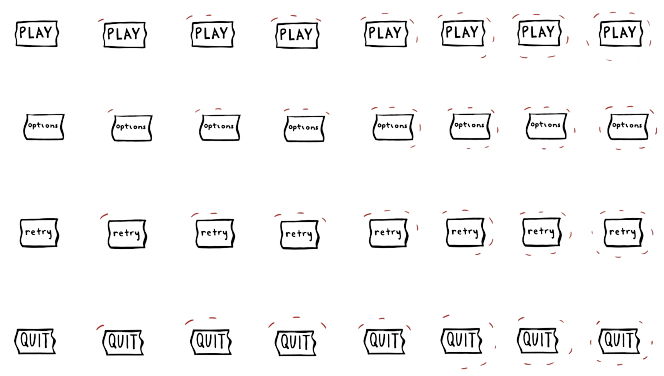
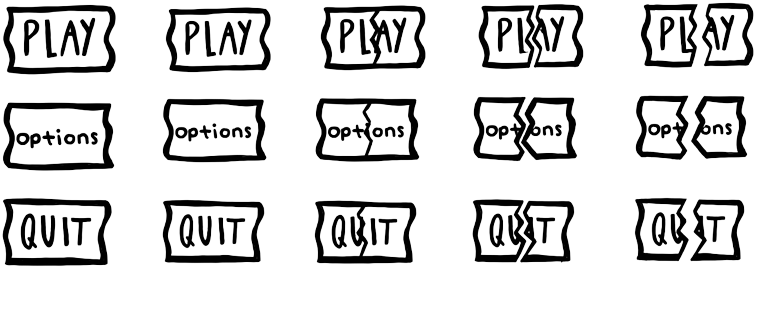
MenuAdded

diff --git a/src/gamestates/GMenu.java b/src/gamestates/GMenu.java
@@ -11,19 +11,46 @@ import java.awt.image.BufferedImage;
 
 public class GMenu extends State implements Statemethods{
     private MenuButton[] buttons = new MenuButton[3];
+    private BufferedImage background;
+    private BufferedImage[] menuTitle = new BufferedImage[4];
+    private int index, aniTick, aniSpeed =60;
     public GMenu(Game game) {
         super(game);
         loadButtons();
+        loadBackground();
     }
 
     private void loadButtons() {
-        buttons[0] = new MenuButton(Game.GAME_WIDTH/2, (int) (100*Game.SCALE), 0, Gamestate.PLAYING);
-        buttons[1] = new MenuButton(Game.GAME_WIDTH/2, (int) (220*Game.SCALE), 1, Gamestate.OPTIONS);
-        buttons[2] = new MenuButton(Game.GAME_WIDTH/2, (int) (290*Game.SCALE), 2, Gamestate.QUIT);
+        buttons[0] = new MenuButton(Game.GAME_WIDTH/2, (int) (315*Game.SCALE), 0, Gamestate.PLAYING);
+        buttons[1] = new MenuButton(Game.GAME_WIDTH/2, (int) (435*Game.SCALE), 1, Gamestate.OPTIONS);
+        buttons[2] = new MenuButton(Game.GAME_WIDTH/2, (int) (550*Game.SCALE), 2, Gamestate.QUIT);
+    }
+
+    private void loadBackground(){
+        background = LoadSave.GetSpriteAtlas(LoadSave.BINDER_PAPER);
+        BufferedImage menuImg = LoadSave.GetSpriteAtlas(LoadSave.MENU_TITLE);
+        for (int i = 0; i < 3; i++){
+            menuTitle[i] = menuImg.getSubimage(330 * i, 0, 330, 170);
+        }
+        menuTitle[3] = menuTitle[1];
+
+    }
+
+    private void updateBackground(){
+        aniTick ++;
+        if (aniTick >= aniSpeed){
+            aniTick = 0;
+            index ++;
+            if(index>=4){
+                index = 0;
+            }
+        }
+
     }
 
     @Override
     public void update() {
+        updateBackground();
         for (MenuButton menuButton : buttons){
             menuButton.update();
         }
@@ -32,6 +59,8 @@ public class GMenu extends State implements Statemethods{
 
     @Override
     public void draw(Graphics g) {
+        g.drawImage(background, 0, 0, Game.GAME_WIDTH, Game.GAME_HEIGHT, null);
+        g.drawImage(menuTitle[index], 445, 100, 300, 100, null);
         for (MenuButton menuButton: buttons){
             menuButton.draw(g);
         }

diff --git a/src/ui/MenuButton.java b/src/ui/MenuButton.java
@@ -11,7 +11,7 @@ import java.nio.Buffer;
 import static utilz.Constants.UI.*;
 
 public class MenuButton {
-    private int xPos, yPos, rowIndex;
+    private int xPos, yPos, rowIndex, aniTick, aniSpeed = 60;
     private Gamestate state;
     private BufferedImage[] imgs;
     private int index;
@@ -33,7 +33,7 @@ public class MenuButton {
 
 
     private void loadImages() {
-       imgs = new BufferedImage[3];
+       imgs = new BufferedImage[5];
        BufferedImage temp = LoadSave.GetSpriteAtlas(LoadSave.MENU_BUTTONS);
        for (int i = 0; i < imgs.length; i++){
            imgs[i] = temp.getSubimage(i * B_WIDTH_DEFAULT, rowIndex * B_HEIGHT_DEFAULT, B_WIDTH_DEFAULT,B_HEIGHT_DEFAULT);
@@ -41,19 +41,34 @@ public class MenuButton {
    }
 
     public void draw(Graphics g){
-        g.drawImage(imgs[index],  xPos - xOffsetCenter, yPos, B_WIDTH, B_HEIGHT, null);
+        g.drawImage(imgs[index],  xPos - xOffsetCenter, yPos, B_WIDTH_DEFAULT, B_HEIGHT_DEFAULT, null);
     }
 
     public void update(){
-        index = 0;
-        if(mouseOver){
-            index = 1;
-        }
-        if(mousePressed){
-            index = 2;
+        aniTick++;
+        if (aniTick >= aniSpeed){
+            aniTick = 0;
+            index ++;
+            if (index > 1){
+                index = 0;
+            }
         }
 
-    }
+        else if(mouseOver) {
+            index = 2;
+            while (index < imgs.length - 1) {
+                index++;
+            }
+        }
+
+        else if(mousePressed){
+            index = 1;
+
+
+            }
+        }
+
+
     public boolean isMouseOver(){
         return mouseOver;
     }

diff --git a/src/levels/LevelManager.java b/src/levels/LevelManager.java
@@ -170,6 +170,11 @@ public class LevelManager {
         buttons[0] = new Rectangle(Game.BLOCK_SIZE*9,Game.FLOOR_HEIGHT - Game.BLOCK_SIZE*2 - Game.BUTTON_HEIGHT,Game.BUTTON_WIDTH, Game.BUTTON_HEIGHT);
         buttons[1] = new Rectangle(Game.BLOCK_SIZE*6,Game.FLOOR_HEIGHT - Game.BLOCK_SIZE*4 - Game.BUTTON_HEIGHT- Game.LINE_SIZE*2,Game.BUTTON_WIDTH, Game.BUTTON_HEIGHT);
 
+        //obstacles
+        obstacles = new Obstacle[3];
+        obstacles[0] = new Obstacle("GEM", 690, 45, game);
+        obstacles[1] = new Obstacle("GEM", 1015, 335, game);
+        obstacles[2] = new Obstacle("GEM", 630, 400, game);
 
         LevelCreated = true;
     }

diff --git a/src/utilz/Constants.java b/src/utilz/Constants.java
@@ -4,8 +4,8 @@ import main.Game;
 
 public class Constants {
     public static class UI{
-        public static final int B_WIDTH_DEFAULT = 80;
-        public static final int B_HEIGHT_DEFAULT = 100;
+        public static final int B_WIDTH_DEFAULT = 151;
+        public static final int B_HEIGHT_DEFAULT = 93;
         public static final int B_WIDTH = (int)(B_WIDTH_DEFAULT* Game.SCALE);
         public static final int B_HEIGHT = (int)(B_HEIGHT_DEFAULT* Game.SCALE);
         public static final int PLAY_BUTTON = 0;

diff --git a/src/utilz/LoadSave.java b/src/utilz/LoadSave.java
@@ -15,6 +15,8 @@ public class LoadSave {
     public static final String TITLE_ATLAS = "Obstacles.png";
     public static final String OBBY_ATLAS = "Obstacles_Sprites.png";
     public static final String MENU_BUTTONS = "menuButtons.png";
+    public static final String MENU_TITLE = "menuTitle.png";
+    public static final String BINDER_PAPER = "binderPaper.JPG";
 
 
     public static BufferedImage GetSpriteAtlas(String fileName) {

diff --git a/src/main/Game.java b/src/main/Game.java
@@ -77,6 +77,8 @@ public class Game implements Runnable{
             case PLAYING:
                 playing.update();
                 break;
+            case QUIT:
+                System.exit(0);
             default:
                 break;
         }
